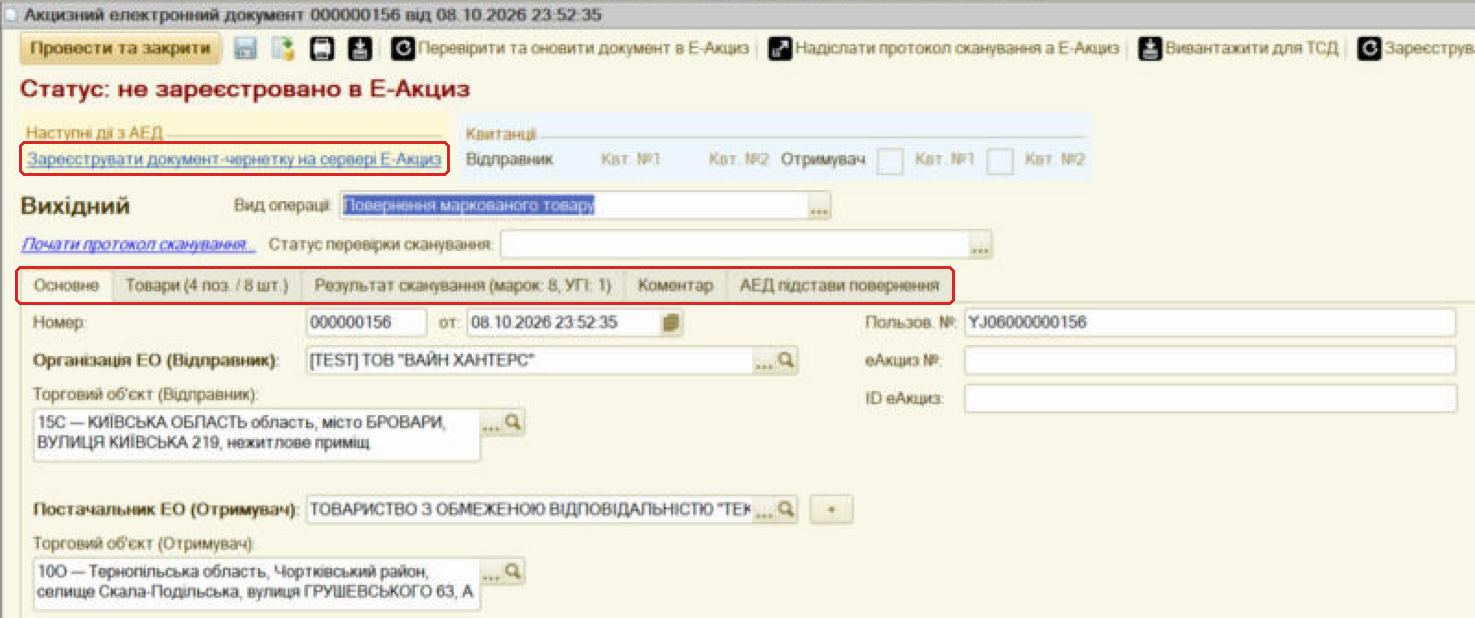
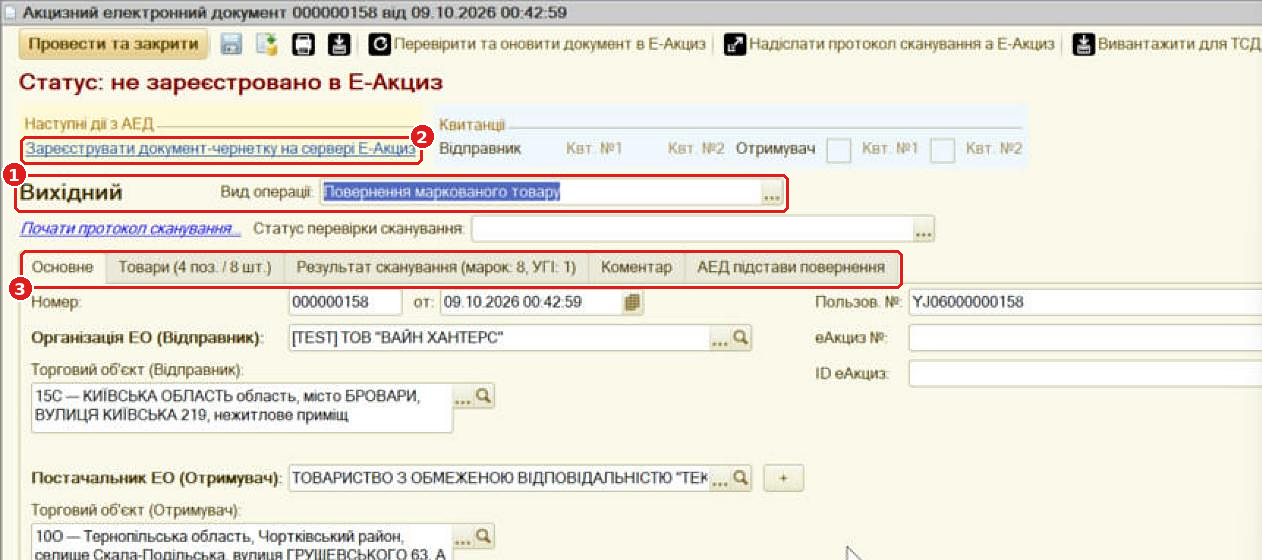
АЕД №4: нові скріншоти з повернення 023-YJ06-2026-000003 на підставі 020-I69I-2026-000049
Claude-Session: https://claude.ai/code/session_0177sjggDQ9MXuFeJFH1q7HZ

Changed region(s): [[0.0, 0.0, 1.0, 1.0], [0.649, 0.9714, 0.6799, 1.0]]

diff --git a/docs/aed/aed4-povernennia.md b/docs/aed/aed4-povernennia.md
@@ -8,26 +8,32 @@
 
 ## 1. Створіть повернення
 
-На **Робочому столі AEDoc** виділіть вхідний АЕД №1 і оберіть **Дії з документом АЕД → Створити повернення поточного**.
+На **Робочому столі AEDoc**:
 
-<img class="shot" src="../img/aed4-1-menu.png" alt="Меню «Дії з документом АЕД»: пункт «Створити повернення поточного»">
+1. виділіть вхідний АЕД №1;
+2. відкрийте меню **«Дії з документом АЕД»**;
+3. оберіть **«Створити повернення поточного»**.
+
+<img class="shot" style="width:67%" src="../img/aed4-1-menu.png" alt="Меню «Дії з документом АЕД»: пункт «Створити повернення поточного»">
 
 ## 2. Заповніть усі позиції
 
-Програма запитає, як заповнити повернення. Для АЕД №4 натисніть **«Заповнити всі позиції»** — у документ потраплять усі товари, марки й УП з АЕД №1.
+Програма запитає, як заповнити повернення. Для АЕД №4 натисніть **«Заповнити всі позиції»** (1) — у документ потраплять усі товари, марки й УП з АЕД №1.
 
-<img class="shot" src="../img/aed4-2-dialog.png" alt="Вікно «Створення повернення»: «Заповнити всі позиції», «Додам скануванням», «Скасувати»">
+<img class="shot" style="width:35%" src="../img/aed4-2-dialog.png" alt="Вікно «Створення повернення»: «Заповнити всі позиції», «Додам скануванням», «Скасувати»">
 
 !!! note ""
     **«Додам скануванням»** — якщо повертаєте не все, а лише відскановані позиції.
 
 ## 3. Перевірте документ
 
-Відкриється новий АЕД: **Вихідний**, вид операції **«Повернення маркованого товару»**. Відправник — ваша організація, отримувач — постачальник із АЕД №1.
+Відкриється новий АЕД зі статусом «не зареєстровано в Е-Акциз»:
 
-<img class="shot" src="../img/aed4-3-novyi.png" alt="Новий АЕД №4: статус «не зареєстровано в Е-Акциз», посилання реєстрації чернетки і вкладки документа">
+1. напрям **Вихідний**, вид операції **«Повернення маркованого товару»**. Відправник — ваша організація, отримувач — постачальник із АЕД №1;
+2. посилання для реєстрації чернетки (крок 4);
+3. вкладки документа — перевірте їх перед реєстрацією.
 
-Перевірте вкладки:
+<img class="shot" style="width:80%" src="../img/aed4-3-novyi.png" alt="Новий АЕД №4: статус «не зареєстровано в Е-Акциз», посилання реєстрації чернетки і вкладки документа">
 
 | Вкладка | Що там |
 |---|---|
@@ -35,40 +41,61 @@
 | **Результат сканування** | Упаковка (УП) і всі марки, що до неї належать |
 | **АЕД підстави повернення** | Номер еАкциз документа-підстави (АЕД №1) |
 
-<img class="shot" src="../img/aed4-5-marky.png" alt="Вкладка «Результат сканування»: монотоварна упаковка і 8 марок «Належить до УГІ»">
+На вкладці **«Результат сканування»** (1) видно упаковку (2) і всі марки з неї (3).
 
-<img class="shot" src="../img/aed4-4-pidstava.png" alt="Вкладка «АЕД підстави повернення»: документ-підстава 020-I69I-2026-000048">
+<img class="shot" style="width:80%" src="../img/aed4-5-marky.png" alt="Вкладка «Результат сканування»: монотоварна упаковка і 8 марок">
+
+На вкладці **«АЕД підстави повернення»** (1) — документ-підстава з його номером еАкциз (2).
+
+<img class="shot" style="width:80%" src="../img/aed4-4-pidstava.png" alt="Вкладка «АЕД підстави повернення»: документ-підстава 020-I69I-2026-000049">
 
 ## 4. Зареєструйте чернетку
 
 На панелі **«Наступні дії з АЕД»** натисніть **«Зареєструвати документ-чернетку на сервері Е-Акциз»**.
 
-<img class="shot" src="../img/aed4-6-chernetka.png" alt="Статус «1 — Чернетка», присвоєно номер еАкциз">
+**Результат:**
 
-**Результат:** статус `1 — Чернетка`, у полі **еАкциз №** з'явився номер документа.
+1. статус `1 — Чернетка`;
+2. у полі **еАкциз №** з'явився номер документа.
 
 ## 5. Проведіть документ
 
-Натисніть **«Провести та закрити»**.
+Натисніть **«Провести та закрити»** (3).
+
+<img class="shot" style="width:80%" src="../img/aed4-6-chernetka.png" alt="Статус «1 — Чернетка», присвоєно номер еАкциз, кнопка «Провести та закрити»">
 
 !!! warning "Підписати можна лише проведений документ"
     Якщо натиснути «Підписати та відправити в Е-Акциз» до проведення, програма попросить спочатку провести документ.
 
 ## 6. Підпишіть документ
 
-На **Робочому столі AEDoc** виділіть новий АЕД №4 і оберіть **Дії з документом АЕД → Підпис АЕД сервіс**. Програма оновить чернетку й перевірить її. У полі **Користувач** оберіть підписанта — ключ і пароль підставляться автоматично — і натисніть **«Підписати АЕД»**.
+На **Робочому столі AEDoc** виділіть новий АЕД №4 (1) і оберіть **«Дії з документом АЕД»** (2) → **«Підпис АЕД сервіс»** (3).
 
-<img class="shot" src="../img/aed4-7-pidpys.png" alt="Форма «Підпис відправника»: підготовка виконана, поле Користувач, кнопка «Підписати АЕД»">
+<img class="shot" style="width:67%" src="../img/aed4-7-menu-pidpys.png" alt="Меню «Дії з документом АЕД»: пункт «Підпис АЕД сервіс»">
 
-<img class="shot" src="../img/aed4-8-pidpysano.png" alt="«Документ успішно підписано»: підпис відправлено в еАкциз">
+У полі **Користувач** натисніть **…** і оберіть підписанта.
+
+<img class="shot" style="width:37%" src="../img/aed4-8-korystuvach.png" alt="Довідник «Користувачі ЕАкциз»: вибір підписанта">
+
+У формі **«Підпис відправника»**:
+
+1. програма сама оновила чернетку й перевірила її — помилок не виявлено;
+2. обраний підписант — шлях до ключа й пароль підставились автоматично;
+3. натисніть **«Підписати АЕД»**.
+
+<img class="shot" style="width:44%" src="../img/aed4-9-pidpys.png" alt="Форма «Підпис відправника»: підготовка виконана, поле Користувач, кнопка «Підписати АЕД»">
+
+**Результат:** «Документ успішно підписано» — підпис відправлено в еАкциз.
+
+<img class="shot" style="width:44%" src="../img/aed4-10-pidpysano.png" alt="«Документ успішно підписано»: підпис відправлено в еАкциз">
 
 ## 7. Запустіть обмін
 
 Закрийте форму підпису і натисніть **«Запустити обмін з еАкциз»**.
 
-<img class="shot" src="../img/aed4-9-obmin.png" alt="Журнал: квитанції відправника, стан «4 — Підписано відправником», дальша дія «Товар у дорозі»">
+<img class="shot" src="../img/aed4-11-obmin.png" alt="Журнал: квитанції відправника, стан «4 — Підписано відправником», дальша дія «Товар у дорозі»">
 
 !!! success "Повернення відправлено, якщо"
-    - є квитанції **Квт.1** і **Квт.2** відправника;
-    - стан `4 — Підписано відправником`;
-    - дальша дія — **«Товар у дорозі»**: документ чекає на підпис постачальника.
+    1. є квитанції **Квт.1** і **Квт.2** відправника;
+    2. стан `4 — Підписано відправником`;
+    3. дальша дія — **«Товар у дорозі»**: документ чекає на підпис постачальника.
